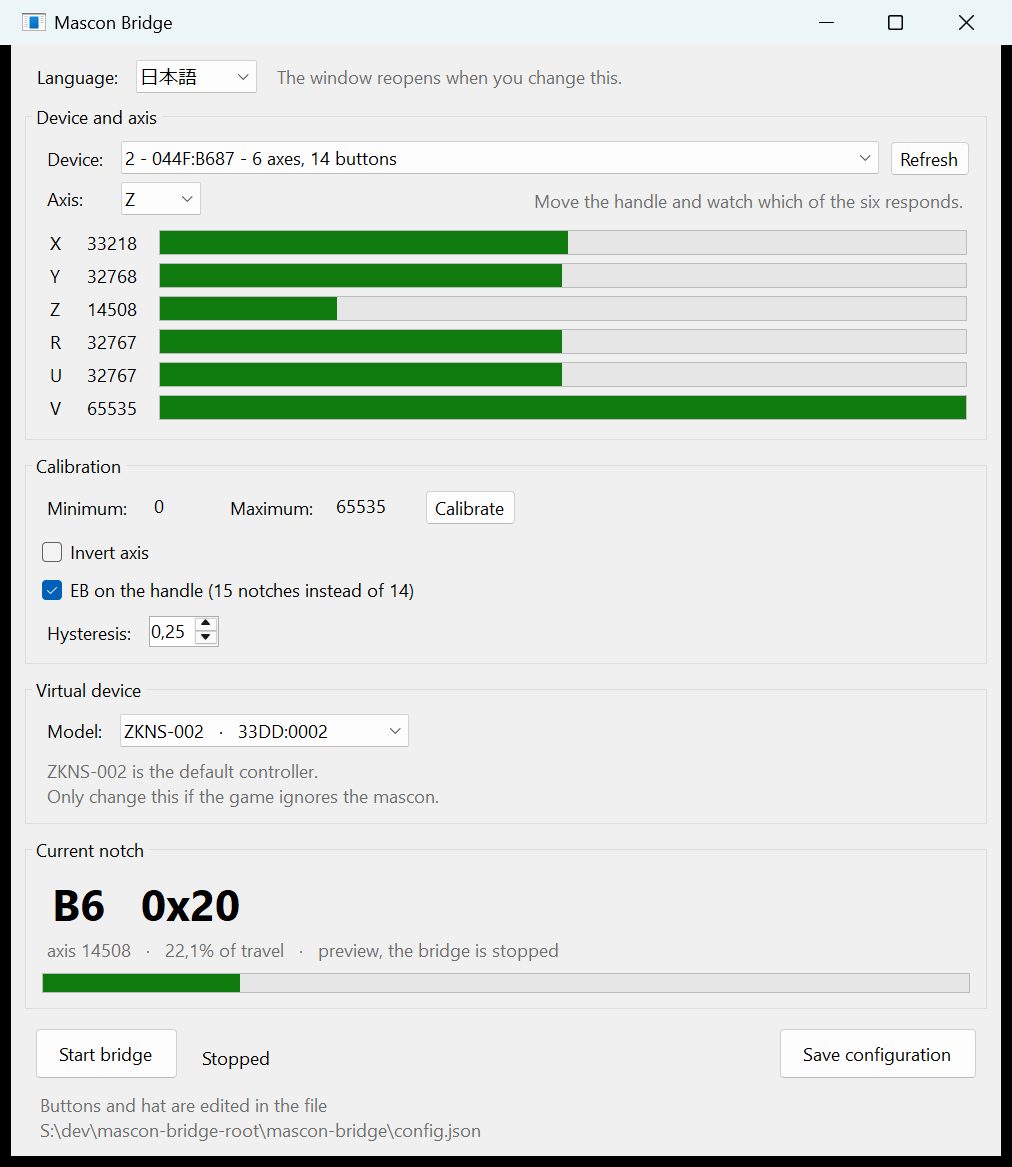
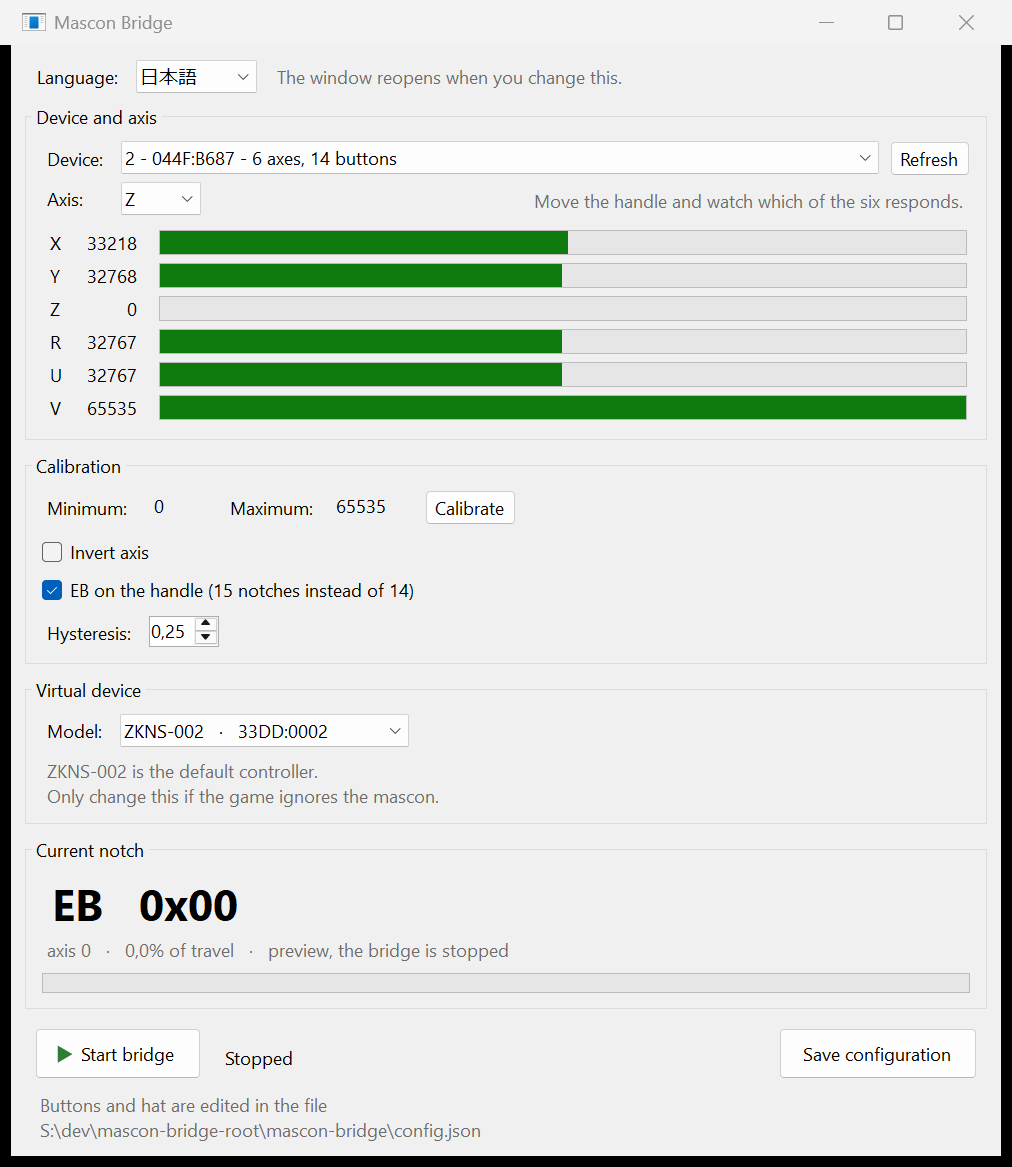
Put a play and a stop glyph on the bridge button
"Start bridge" alone did not read as the main control of the window. A green
triangle and a red square say what the button does before the caption is read,
and they say it in any language.

Drawn in code rather than taken from a font. The obvious characters, U+25B6 and
U+25A0, render as colour emoji in some Windows fonts, which is likelier still with
the Japanese interface. Drawing also sizes them from the button's own font, so
they follow the display scaling.

Caption and glyph are set together in one place, so the button cannot end up
showing a triangle while saying stop.

Both states were captured off screen and looked at. The README screenshots are
refreshed to show the button as it is now.

diff --git a/MainForm.cs b/MainForm.cs
@@ -56,7 +56,9 @@ public sealed class MainForm : Form
         Minimum = 0, Maximum = 14, Height = 20, MinimumSize = new Size(300, 20),
     };
 
-    private readonly Button _btnStartStop = new() { Text = Strings.ButtonStartBridge, AutoSize = true };
+    private readonly Button _btnStartStop = new() { AutoSize = true };
+    private Bitmap? _playGlyph;
+    private Bitmap? _stopGlyph;
     private readonly Button _btnSave = new() { Text = Strings.ButtonSaveConfiguration, AutoSize = true };
     private readonly Label _lblStatus = new() { AutoSize = true, Text = Strings.StatusStopped };
     private readonly Label _lblPath = new() { AutoSize = true, ForeColor = SystemColors.GrayText };
@@ -377,6 +379,9 @@ public sealed class MainForm : Form
 
         _btnStartStop.Click += OnStartStopClick;
         _btnStartStop.Padding = new Padding(14, 8, 14, 8);
+        _btnStartStop.ImageAlign = ContentAlignment.MiddleLeft;
+        _btnStartStop.TextAlign = ContentAlignment.MiddleRight;
+        _btnStartStop.TextImageRelation = TextImageRelation.ImageBeforeText;
 
         _btnSave.Click += OnSaveClick;
         _btnSave.Padding = new Padding(14, 8, 14, 8);
@@ -604,7 +609,7 @@ public sealed class MainForm : Form
             _runner = null;
 
             SetEditingEnabled(true);
-            _btnStartStop.Text = Strings.ButtonStartBridge;
+            ShowStartStop(running: false);
             _lblStatus.Text = Strings.StatusStopped;
             _previewZone = 0;
             return;
@@ -633,7 +638,7 @@ public sealed class MainForm : Form
         }
 
         SetEditingEnabled(false);
-        _btnStartStop.Text = Strings.ButtonStopBridge;
+        ShowStartStop(running: true);
         _lblStatus.Text = Strings.StatusBridgeRunning;
     }
 
@@ -650,6 +655,46 @@ public sealed class MainForm : Form
         _chkInvert.Enabled = on;
         _chkEbInAxis.Enabled = on;
         _numHyst.Enabled = on;
+    }
+
+    // Drawn rather than taken from a font: the obvious characters for this, U+25B6
+    // and U+25A0, come out as colour emoji in some Windows fonts, and the Japanese
+    // interface makes that more likely. Drawing also scales with the display.
+    private static Bitmap PlayGlyph(int size, Color colour)
+    {
+        var bmp = new Bitmap(size, size);
+        using var g = Graphics.FromImage(bmp);
+        g.SmoothingMode = System.Drawing.Drawing2D.SmoothingMode.AntiAlias;
+
+        float inset = size * 0.18f;
+        var triangle = new[]
+        {
+            new PointF(inset, inset * 0.7f),
+            new PointF(inset, size - inset * 0.7f),
+            new PointF(size - inset, size / 2f),
+        };
+        using var brush = new SolidBrush(colour);
+        g.FillPolygon(brush, triangle);
+        return bmp;
+    }
+
+    private static Bitmap StopGlyph(int size, Color colour)
+    {
+        var bmp = new Bitmap(size, size);
+        using var g = Graphics.FromImage(bmp);
+        g.SmoothingMode = System.Drawing.Drawing2D.SmoothingMode.AntiAlias;
+
+        float inset = size * 0.22f;
+        using var brush = new SolidBrush(colour);
+        g.FillRectangle(brush, inset, inset, size - inset * 2, size - inset * 2);
+        return bmp;
+    }
+
+    /// <summary>Caption and glyph always change together, so they cannot disagree.</summary>
+    private void ShowStartStop(bool running)
+    {
+        _btnStartStop.Text = running ? Strings.ButtonStopBridge : Strings.ButtonStartBridge;
+        _btnStartStop.Image = running ? _stopGlyph : _playGlyph;
     }
 
     private void OnLanguageChanged(object? sender, EventArgs e)
@@ -698,6 +743,12 @@ public sealed class MainForm : Form
         // Cap the explanatory text so a long line wraps rather than widening the
         // whole window. Without this, editing one sentence resizes the panel.
         int cap = LogicalToDeviceUnits(640);
+        // Sized from the button's own font, so it tracks the display scaling.
+        int glyph = (int)Math.Round(_btnStartStop.Font.GetHeight() * 0.95);
+        _playGlyph = PlayGlyph(glyph, Color.FromArgb(0x2E, 0x7D, 0x32));
+        _stopGlyph = StopGlyph(glyph, Color.FromArgb(0xC6, 0x28, 0x28));
+        ShowStartStop(_runner is { IsRunning: true });
+
         _lblPath.MaximumSize = new Size(LogicalToDeviceUnits(640), 0);
         foreach (var h in _hints) h.MaximumSize = new Size(cap, 0);
 
@@ -723,6 +774,8 @@ public sealed class MainForm : Form
     protected override void OnFormClosing(FormClosingEventArgs e)
     {
         _timer.Stop();
+        _playGlyph?.Dispose();
+        _stopGlyph?.Dispose();
         _runner?.Stop();
         _runner?.Dispose();
         base.OnFormClosing(e);
